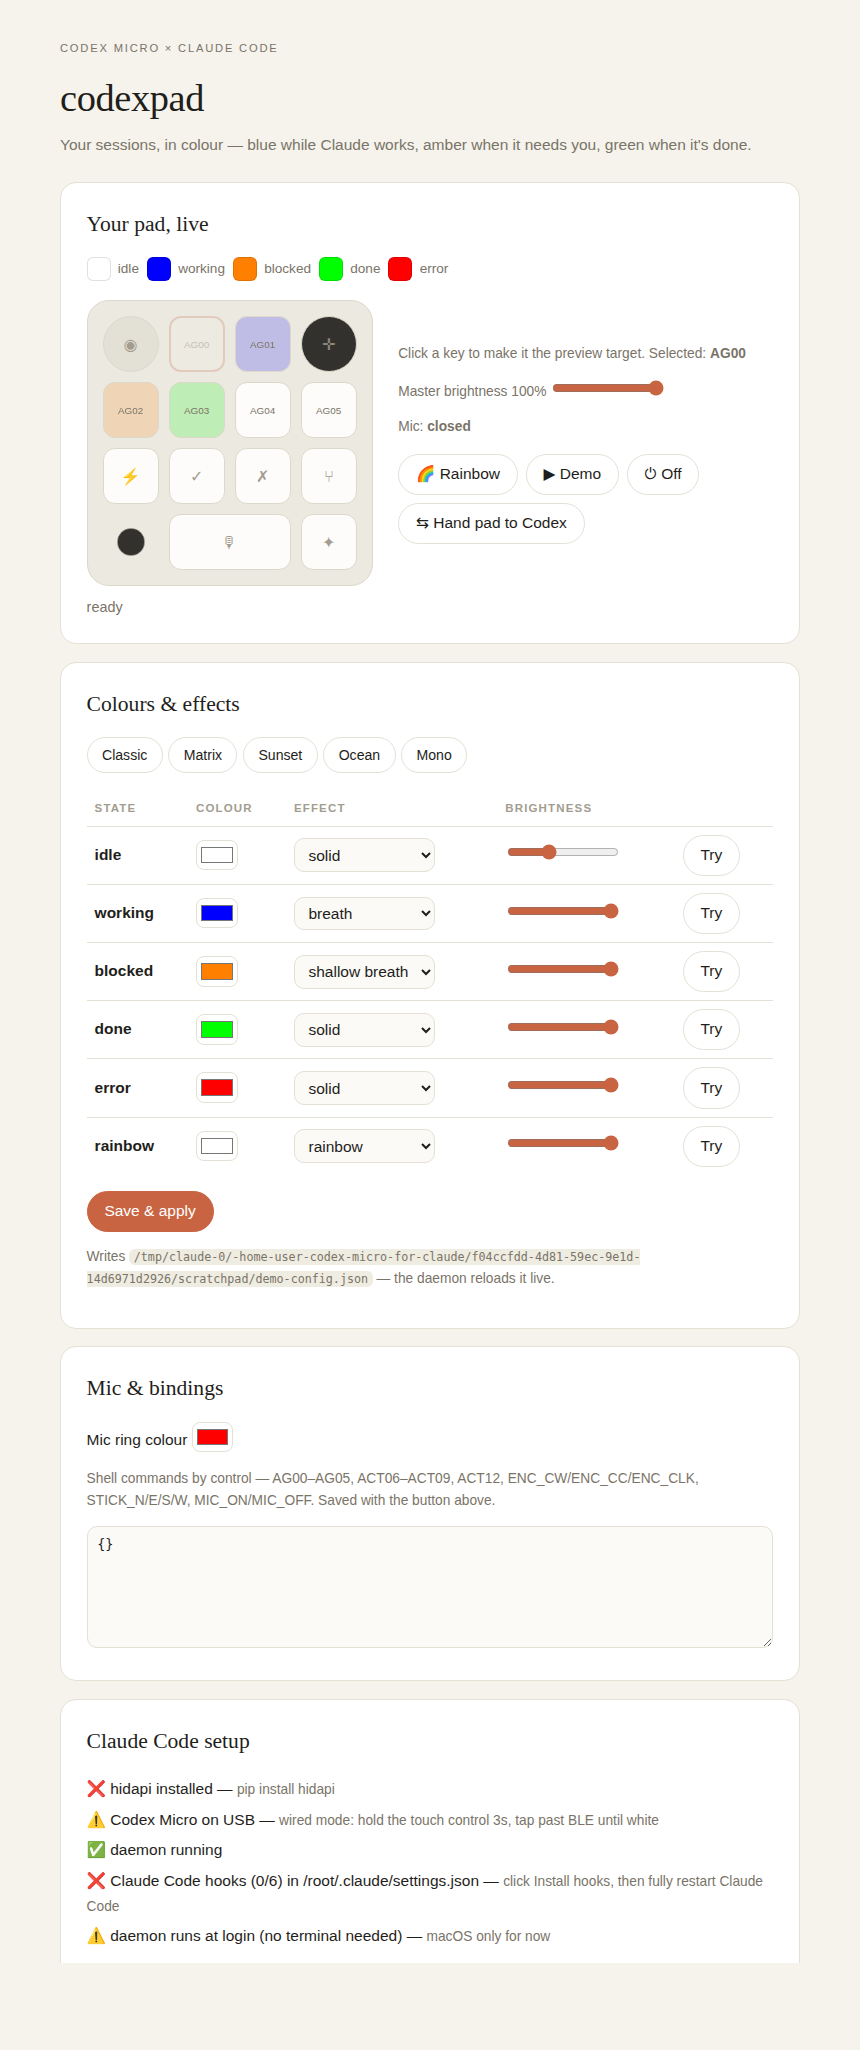
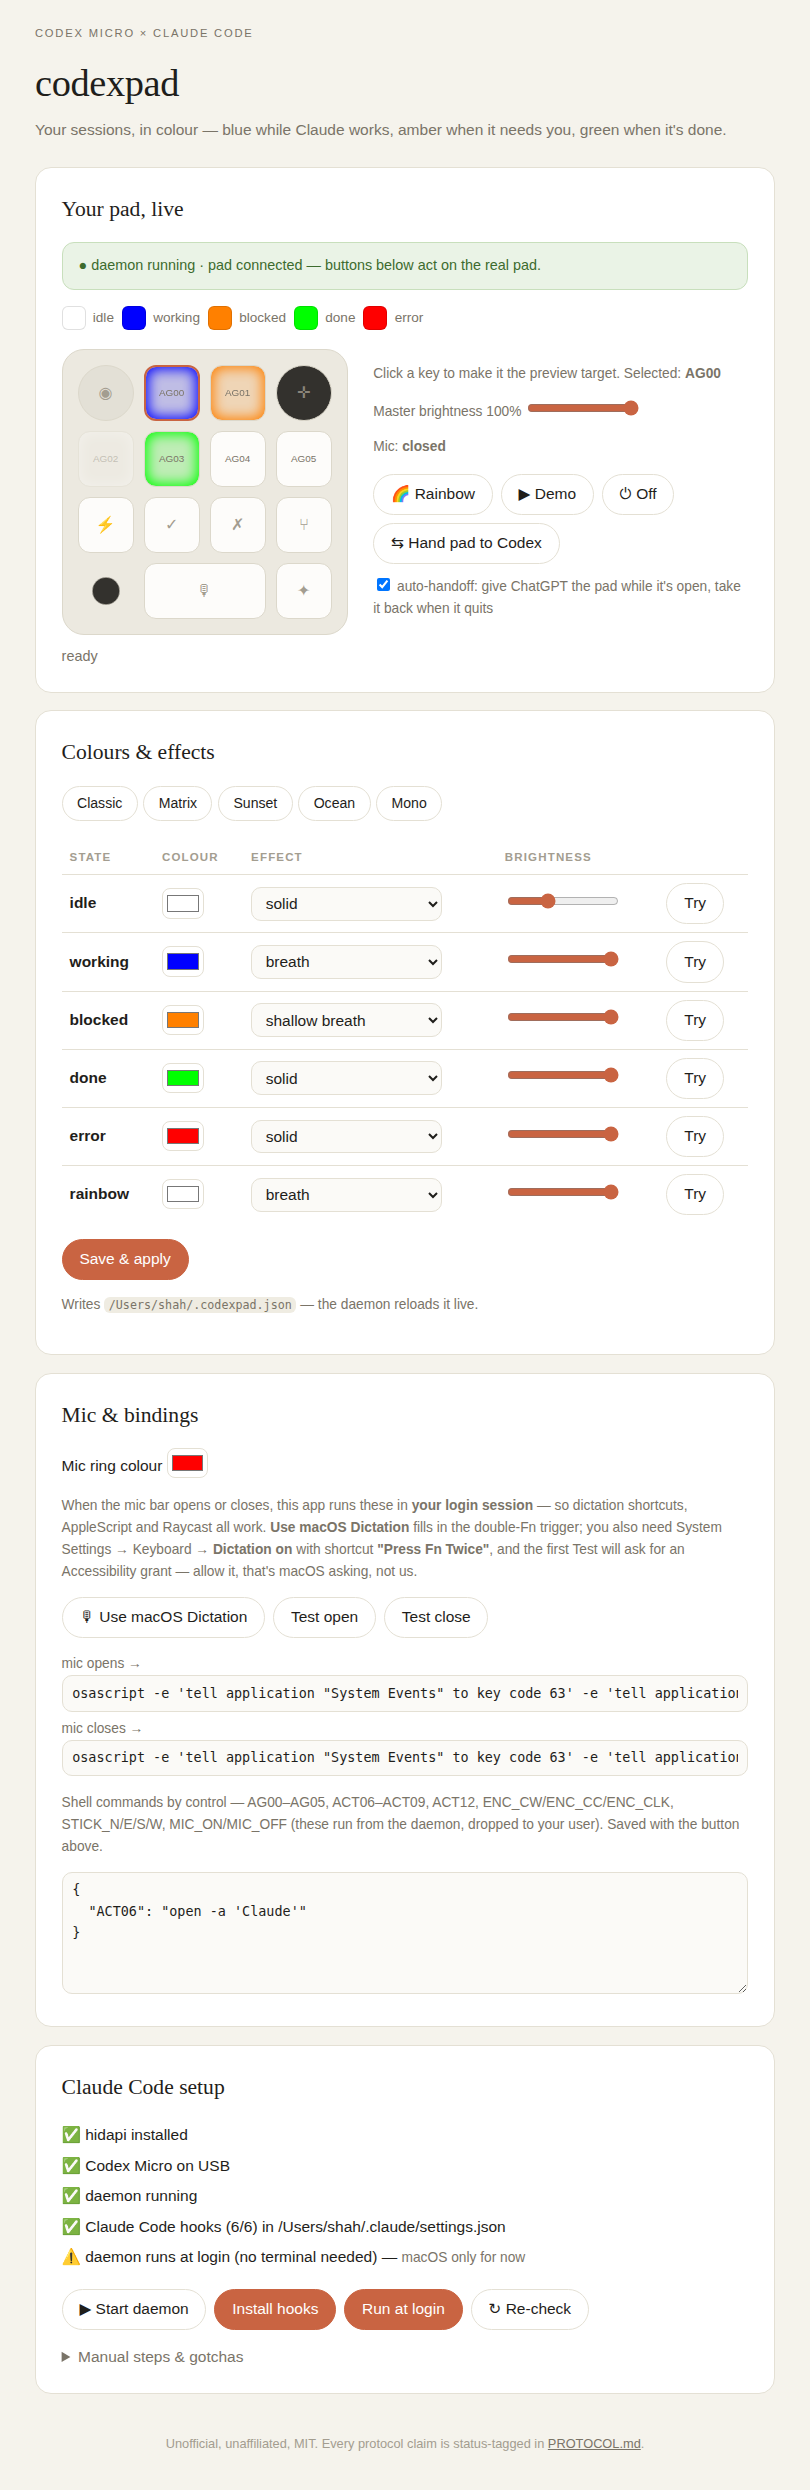
Re-shoot docs against the live panel: new GIF, new hero screenshot, README sync
demo.gif is now seven captioned frames staged on a real daemon (fake pad):
session lifecycle, mic-open, software rainbow, and the automatic ChatGPT
handoff with its status strip. app.png shows the current panel — status
strip, auto-handoff toggle, dictation one-click, 6/6 hooks. README panel
section now leads with the status strip and points stubborn-Mac users at
the terminal truth table from the install section.

Claude-Session: https://claude.ai/code/session_01LT33wSa2wH8wvR2vqV6C2B

diff --git a/README.md b/README.md
@@ -14,7 +14,7 @@ Blue while Claude works · amber when it needs you · green when it's done
 [![Protocol](https://img.shields.io/badge/protocol-documented%20%C2%B7%20status%20tagged-C96442)](PROTOCOL.md)
 
 <img src="docs/demo.gif" width="720" alt="The codexpad control panel mirroring live session states on the pad"><br>
-<sub>The control panel mirroring a working session, a blocked approval, a finished run, the mic opening, and rainbow mode.</sub>
+<sub>Live: a session starting, working, blocked, done · the mic bar opening dictation · software rainbow · and ChatGPT taking the pad over automatically.</sub>
 
 </div>
 
@@ -85,6 +85,11 @@ code, run **`./make_login_app.sh update`**: it refreshes the root wrappers
 without touching the app bundle, so your Input Monitoring grant survives.
 Only a full rebuild voids the grant.
 
+If the strip says the pad is *blocked* even after a fresh grant, your Mac
+is the stubborn kind that won't pass the grant through an app bundle — the
+[field guide](#field-guide) truth table covers it, and the one-word
+terminal launch there has never failed anywhere.
+
 ### Anywhere else — one command
 
 ```bash
@@ -109,13 +114,20 @@ one-word shell function.
 <img src="docs/app.png" width="680" alt="The full codexpad control panel">
 </div>
 
+- **The status strip** — always at the top: daemon state, pad state, and
+  when something's wrong, the *exact* fix ("pad on USB but blocked — Input
+  Monitoring, remove the old row…"). Nothing fails silently; every button
+  that can't reach the pad says why.
 - **Your pad, live** — a mockup mirroring the hardware in real time: which
   session owns each key, its state and effect, mic open/closed, master
-  brightness (tracks the physical dial).
+  brightness (tracks the physical dial), and the **auto-handoff** toggle
+  (give ChatGPT the pad while it's open).
 - **Colours & effects** — pickers, effect menus and brightness per state,
   five presets (Classic, Matrix, Sunset, Ocean, Mono), **Try** on any key
   you click, a **Demo** cycle. **Save** writes `~/.codexpad.json` and the
   daemon repaints live.
+- **Mic & bindings** — ring colour, **Use macOS Dictation** one-click setup
+  with Test buttons, and shell bindings for every control.
 - **Setup** — a health checklist (hidapi → device → daemon → hooks →
   runs-at-login) where every ❌ has a button that fixes it, including
   **Install hooks** (merges into `~/.claude/settings.json`, backup first)
